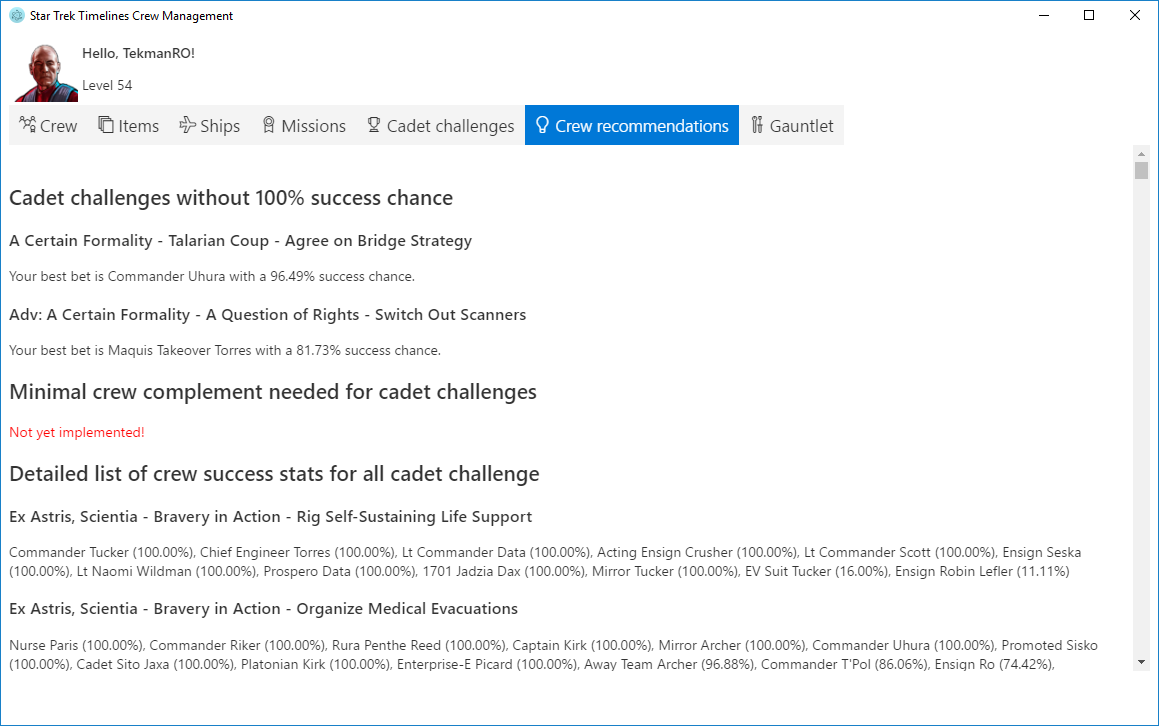
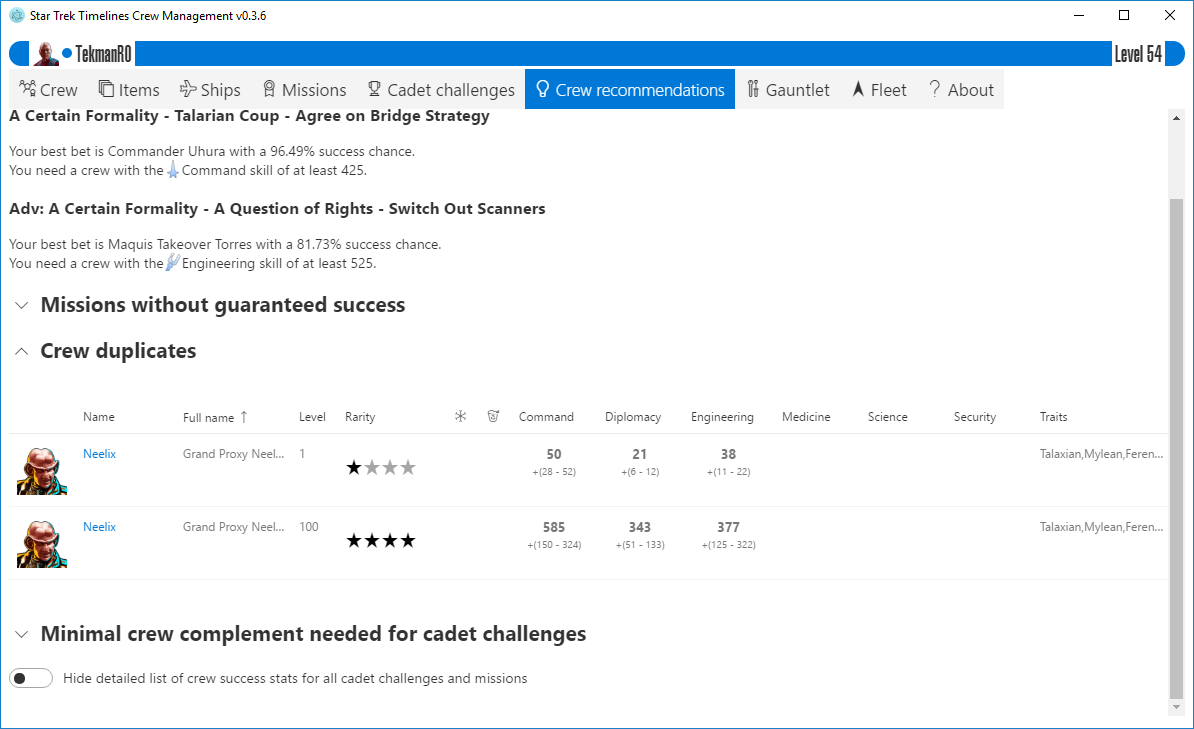
Update documentation and screenshots.

diff --git a/README.md b/README.md
@@ -27,6 +27,12 @@ The first tab lets you manage your crew. You can sort by various fields, (un)gro
 
 This tab lists out all the items you currently have, along with their quantity and type.
 
+### Ship management
+
+![Screenshot Ships](/docs/Screenshot-Ships.png "Ships screenshot")
+
+This tab lists out all the ships you currently have, along with their stats.
+
 ### Missions
 
 ![Screenshot Missions](/docs/Screenshot-Missions.png "Missions screenshot")
@@ -52,6 +58,12 @@ This tab will make recommendations about which crew you can freeze or airlock, a
 ![Screenshot Gauntlet](/docs/Screenshot-Gauntlet.png "Gauntlet screenshot")
 
 In this tab you can get recommendations for which crew to use in your next gauntlet (if you didn't already start it). Please see source code for details, the algorithm is still "hand-wavy" at this point and could use input from someone more experienced with statistical analysis.
+
+### Fleet
+
+![Screenshot Fleet](/docs/Screenshot-Fleet.png "Fleet screenshot")
+
+Basic information about your fleet such as a member list with their last online and event ranks and starbase rooms' status.
 
 ## Get an access token
 First, you need to obtain an access token. If you're running on a Windows PC, install the free Star Trek Timelines [Steam application](http://store.steampowered.com/app/600750/Star_Trek_Timelines/), then open it at least once to log in.
